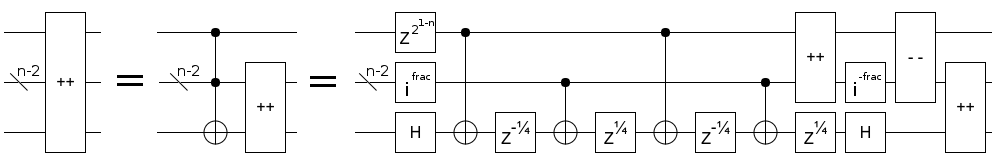
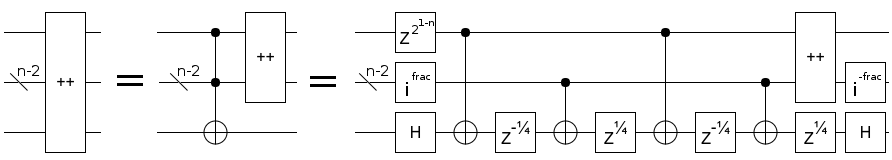
Working out the rest of the constructions in detail

diff --git a/paper.tex b/paper.tex
@@ -8,20 +8,22 @@
 \maketitle
 
 \begin{abstract}
-We describe classical reversible constructions, that require at most 1 ancilla in an unspecified state, for incrementing a register in $O(N)$ depth and size, for modular addition of one register into another in $O(N)$ depth and size, and for modular addition of a compile-time constant into a register in $O(N)$ depth and $O(N \lg N)$ size.
-We note some applications of the constructions, such as performing Shor's algorithm on an $n$-bit product with only $2n+1$ qubits.
+We describe classical and quantum circuits for performing reversible arithmetic using at most 1 ancilla in an unknown state.
+Our constructions can perform incrementation, comparisons, addition, and modular addition with classical circuits of linear size and depth.
+We also show how to perform modular offset, improving the best known space requirements for Shor's algorithm from $2n+2$ qubits to $2n+1$ qubits, in linear depth and $O(n \lg n)$ size.
 \end{abstract}
 
 \section{Introduction}
 
 When constructing quantum circuits, or classical reversible circuits, an important resource is the number of available ancilla.
-Traditionally [[[where? who?]]], an ancilla is a bit initialized into a {\em known} state, available for use by the circuit.
-But "dirty" ancilla, that are in an unknown state that must be preserved, are also a useful resource [[[where? who? haner2016]]].
-Although clean ancilla are better than dirty ancilla for making compact simple circuits [[[example?]]], dirty ancilla are more readily available  because any unused bit in a circuit can be temporarily borrowed as a dirty ancilla.
+An ancilla qubit is an extra qubit, on top of the qubits used for input and output, available for use as temporary workspace.
+Ancilla may be initialized to a known state ("clean bit"), or be given to the circuit in an unknown state ("dirty bit") that must be restored before the circuit finishes.
+Clean bits are more valuable, allowing for simpler and more compact circuit constructions, but dirty bits are more plentiful, because any temporarily unused qubit is a borrowable dirty bit.
 
-The ability to borrow dirty ancilla from other parts of the circuit makes circuit constructions that require only dirty ancilla flexible, especially when space-constrained or when proper ancilla may be far away [[[(e.g. surface code)]]].
-For example, [haner2016] used dirty ancilla to cut the cost of performing Shor's algorithm on an $n$-bit number, using only $2n+2$ qubits, from ???? to $O(n^3)$ depth and $O(n^3 \lg n)$ size.
-In this paper we improve on [haner2016]'s result by cutting the number of required qubits from $2n+2$ to $2n+1$.
+The ability for part of a circuit to borrow dirty bits from another part of the same circuit makes circuit constructions that require only dirty bits very flexible.
+Especially in situations with space constraints, or on circuit topologies where clean ancilla are too far away to be acquired quickly.
+For example, \cite{haner2016} improves the cost of performing Shor's algorithm, when limited to using only $2n+2$ qubits, to $O(n^3)$ depth and $O(n^3 \lg n)$ size by using an offset ("constant addition") construction that borrows dirty bits from one register while offsetting the other.
+We improve on \cite{haner2016} by cutting the number of required qubits from $2n+2$ to $2n+1$.
 
 The paper is structured as follows.
 Sections ??? through ??? describe various circuit constructions.
@@ -33,35 +35,52 @@ Section ??? applies those circuit constructions to exist problems.
 All constructions assume a 2s-complement representation of integers.
 All circuit diagrams with multi-wire integer operations put the least significant bit towards the top.
 
-\section{$O(N)$ inline adder}
+\section{$O(N)$ inline adders}
 
-[van2004] describes a reversible adder with $O(N)$ depth and $O(N)$ size, requiring a single clean ancilla.
-The ancilla must be off, or else the result is incremented into returning $a+b+1$ instead of $a+b$.
+In \cite{van2004}, a reversible adder with $O(N)$ depth and $O(N)$ size, requiring a single clean ancilla, is described.
+If the ancilla is not initialized in the off state, the target register ends up storing $a+b+1$ instead of $a+b$.
 
-The need for the ancilla to be clean can be fixed by conditionally NOT-ing the source and target registers before and after the addition when the carry is on.
-Because $\lnot x = -x-1$, temporarily inverting the target turns the addition into a subtraction.
-Temporarily inverting the source turns the subtraction back into an addition, but also introduces an extra shift by -1.
-The -1 cancels the carry's +1 effect.
+The need for the ancilla to be clean can be fixed by inverting (bitwise-NOT-ing) the source and target registers before and after the addition when the carry is on.
+Because $\lnot x = -x-1$, and the registers are the same size, temporarily inverting the target effectively turns the addition into a subtraction.
+Temporarily inverting the source turns the subtraction back into an addition, but also introduces an extra shift by -1, cancelling out the +1 error.
 
-On top of this improvement, the carry role can be merged into the most-significant-bit of the source register.
-Although the MSB can't invert itself, the circuit still works because we don't need an overflow signal that distinguishes between the MSB toggling from on to off instead of from off to on.
-
-The improved reversible adder is shown in figure \ref{fig:inlineadder}.
-Note that, because the source register is used as workspace, it must be at least as large as the target register.
+On top of allowing the ancilla to be dirty, the ancilla's role can be merged into the most-significant-bit (MSB) of the source register.
+As shown in figure \ref{fig:inlineadder}, addition of same-sized registers can be performed {\em inline}, with no ancilla at all!
 
 \begin{figure}
   \centering
   \includegraphics[totalheight=3cm]{inline-adder.png}
-  \caption{\em Adder using no ancilla and $\Theta(N)$ CNOTs and CSWAPs. Based on [van2004].}
+  \caption{\em Same-register-size adder using no ancilla, $6N-3$ CNOTs, and $2N-2$ CSWAPs. Based on \cite{van2004}.}
   \label{fig:inlineadder}
 \end{figure}
 
 To perform subtraction instead of addition: run the circuit in reverse, temporarily invert the target register by bordering the circuit with NOT gates on the target, or invert the CSWAP controls.
 
+Because the source register is used as workspace, the construction in figure \ref{fig:inlineadder} only works when the source register is the same size as the target register.
+When the source register is larger, the issue is easily avoided by ignoring the high bits of the source register.
+When the target register is larger, the workaround is more difficult.
+Not only is there insufficient workspace, the register sizes being different breaks the logical-negation trick that allowed the carry signal bit to be dirty.
+
+The problems caused by the target register being larger can be overcome by using the increment and decrement constructions from the next section.
+(Note that they use only the same-size adder.)
+The carry signal can be forwarded into the high part of the target register with a controlled increment.
+The MSB of the source register can be free'd for use as a borrowed dirty bit by performing the MSB's controlled increment.
+Finally, the extra increment caused by the borrowed dirty bit being on can be cancelled with a controlled decrement.
+See the circuit diagram in figure \ref{fig:inline-adder-into-large}.
+
+\begin{figure}
+  \centering
+  \includegraphics[totalheight=3cm]{inline-adder-into-large.png}
+  \caption{\em
+      Adder with target larger than source, using no ancilla.
+      Uses increment constructions that use the same-size adder.}
+  \label{fig:inline-adder-into-large}
+\end{figure}
+
 \section{$O(N)$ incrementer}
 
-Note that a register can be incremented by subtracting both $x$ and $\neg x = -x-1$ from it for any $x$.
-When $N$ dirty ancilla are available, this can be done directly as shown in figure \ref{fig:double-sub-increment}.
+A register can be incremented by subtracting both $x$ and $\neg x = -x-1$ from it, for any $x$.
+When $N$ dirty bits are available, $x$ comes from the register defined by those $N$ bits, as shown in figure \ref{fig:double-sub-increment}.
 
 \begin{figure}
   \centering
@@ -70,143 +89,163 @@ When $N$ dirty ancilla are available, this can be done directly as shown in figu
   \label{fig:double-sub-increment}
 \end{figure}
 
-An increment gate can be decomposed into halves where the top half is incremented only if all of the bottom bits are on, and then the bottom half is incremented.
-By borrowing the top half, the bottom half can be incremented with the double-subtraction trick.
-But the trick doesn't work on the top half, because the top half can't be borrowed when being controlled by it.
+To improve from $N$ dirty bits to a single dirty bit, we break the increment operation into two halves.
+A top half that is incremented only if all of the bottom bits are on, and a bottom half that is unconditionally incremented.
+The bottom half can be incremented with the double-subtraction trick by borrowing the top half.
+But the trick doesn't work on the top half, because the bottom half can't be borrowed when it is being used as a control.
 
-A workaround for this is to change the second subtraction to an addition, and to conditionally toggle the target bits instead of the input bits.
-When the condition isn't satisfied, the addition and subtraction cancel each other.
-When the condition is satisfied, the addition inverts into a second subtraction and the input is subtracted from the target twice.
-However, because we are conditioning on the input bits all being on, the input must be -1 and the target must have been incremented by 2.
-To halve the +2 into a +1, left-shift the target and use a dirty bit as its LSB.
+To work around not being able to operate on the borrowed bits while them as a control, start with the double-subtraction trick but change the second subtraction to an addition and conditionally toggle the target bits instead of the input bits.
+When the condition isn't satisfied, the addition and subtraction will cancel each other.
+When the condition is satisfied, the addition is inverted into a subtraction.
+Both the subtraction and addition-turned-subtraction fire, subtracting the input register from the target register twice.
+However, because we are conditioning on the input bits all being on, the input must be -1.
+Therefore the target was incremented by 2.
+To halve the +2 into a +1, prepend a dirty LSB onto the target register as shown in \ref{fig:compact-increment}.
 
 \begin{figure}
   \centering
   \includegraphics[totalheight=1.5cm]{compact-increment.png}
-  \caption{\em Odd-sized $\Theta(N)$ increment with 1 dirty ancilla.}
+  \caption{\em Odd-sized $O(N)$ increment with 1 dirty ancilla.}
   \label{fig:compact-increment}
 \end{figure}
 
-The described incrementer construction is shown in figure \ref{fig:compact-increment}.
-However, because the adder/subtracter construction requires the target and source registers to be the same size, this incrementer construction only works on odd-sized registers.
+The incrementer construction shown in .
+Because the adder/subtracter construction used by the incrementer in figure \ref{fig:compact-increment} requires the target and source registers to be the same size, the construction only works on odd-sized registers.
 For even-sized registers, another minor variation on the conditionally-invert-addition-into-subtraction-with-logical-negation technique is used.
 The construction is shown in \ref{fig:compact-increment-even}.
-Note that it is easily modified to perform efficient increments with arbitrarily many controls.
 
 \begin{figure}
   \centering
   \includegraphics[totalheight=2cm]{compact-increment-even.png}
-  \caption{\em Even-sized $\Theta(N)$ increment with 1 dirty ancilla.}
+  \caption{\em Even-sized $O(N)$ increment with 1 dirty ancilla.}
   \label{fig:compact-increment-even}
 \end{figure}
 
 As with addition and subtraction, you can turn an increment into a decrement either by reversing the gate order, by bordering the circuit with NOT gates, or by inverting all of the controls.
+Also, increment gates can be controlled by using another invert-input-and-output trick (see figures \ref{} and \ref{}).
 
-Our incrementer is classically optimal in asymptotic size and number of ancilla, but not depth.
-The size is asymptotically optimal because any incrementer must touch all $n$ bits.
-The number of ancilla is classically optimal, assuming we want to reduce to a fixed-size gate set, because the parity of the permutation performed by an increment operation is odd but the parity of the permutation performed by a classical gate that doesn't cover the entire circuit is even.
-Therefore, without a dirty bit to use as workspace, no classical circuit can perform an increment gate.
+Note that, unlike with addition, it is impossible to create a classical incrementer that uses no ancilla.
+The parity of the permutation performed by an increment operation is odd, but the parity of the permutation performed by any classical gate that doesn't cover the entire circuit is even.
 Quantumly, the parity barrier can be bypassed by using partial rotations (see figure \ref{fig:bootstrap-ancilla}).
 
 \begin{figure}
   \centering
-  \includegraphics[totalheight=1.3cm]{ancilla-bootstrap.png}
-  \caption{\em Bootstrapping dirty ancilla out of an increment gate using quantum operations.}
+  \includegraphics[totalheight=1.4cm]{ancilla-bootstrap.png}
+  \caption{\em Bootstrapping dirty ancilla out of an increment gate using quantum operations.
+  The $i^{\text{frac}}$ operation is implemented by a column of $Z^{2^{-k}}$ gates.
+  The 'frac' refers to the fraction $v/2^d$, where $v$ is the computational-basis value in the register and $d$ is the size of the register.}
   \label{fig:bootstrap-ancilla}
 \end{figure}
 
-\section{$O(N \lg N)$ constant $\text{PivotFlip}$}
+\section{$O(N)$ inline comparisons}
+
+Comparison operations toggle a target bit based on the relationship between two input registers.
+
+The is-B-less-than-A comparison is implemented by subtracting $A$ out of $B$ with the target bit appended to $B$, then adding $A$ into $B$ without the target bit appended.
+See figure \ref{fig:comparison-less}.
+
+\begin{figure}
+  \centering
+  \includegraphics[totalheight=3cm]{comparison-less.png}
+  \caption{\em Toggling a target bit if one register is less than another, without using ancilla.}
+  \label{fig:comparison-less}
+\end{figure}
+
+The same idea is used for is-B-less-than-or-equal-to-A, except $A+1$ is subtracted and added instead of $A$.
+The extra $\pm 1$ is performed by increment and decrement gates, as shown in figure \ref{fig:comparison-leq}.
+When the two registers are the same size, the increment gate can be omitted by inverting the $A$ and $B$ registers during the addition.
+
+$>$ and $\geq$ comparisons are done by performing the opposite comparison ($\leq$ and $<$ respectively) and inverting the result by toggling the target.
+To perform a comparison when the $B$ register is smaller than the $A$ register, swap their roles and use the opposite comparison.
+
+\begin{figure}
+  \centering
+  \includegraphics[totalheight=3cm]{comparison-leq.png}
+  \caption{\em Toggling a target bit if one register is less than or equal to another, without using ancilla.}
+  \label{fig:comparison-leq}
+\end{figure}
+
+\section{$\text{PivotFlip}$}
 
 A pivot-flip operation reverses the order of states less than or equal to a given pivot value.
 For example, a pivot-flip with the pivot equal to 3 would swap $|0\rangle$ and $|3\rangle$, swap $|1\rangle$ and $|2\rangle$, and leave all other states untouched.
-We will use pivot-flips later, when implementing modular addition.
+Pivot-flips are useful for implementing cyclic operations, such as modular addition.
 
-For concreteness, the exact permutation of a pivot-flip is:
+The exact permutation performed by a pivot-flip with pivot equal to $k$ is:
 
 $$\text{PivotFlip}_k = \sum_{i=0}^k |k-i\rangle \langle i| + \sum_{i=k+1}^{N-1} |i\rangle \langle i|$$
 
+And the overall permutation, including the pivot input, is:
+
+$$\text{PivotFlip} = \sum_{k=0}^{N-1} |k\rangle \langle k| \otimes \text{PivotFlip}_{k}$$
+
 To perform a pivot-flip efficiently, we use the fact that $x \rightarrow \lnot(x - a)$ nearly does what is required.
-However, instead of doing nothing to the elements past the pivot, it also flips those elements as shown in figure \ref{fig:double-flip}.
+As shown in figure \ref{fig:double-flip}, the permutation $x \rightarrow \lnot(x - a)$ flips below the pivot but also above the pivot.
+However, because $x \rightarrow \lnot(x - a)$ is its own inverse and doesn't change whether any value is less than or equal to the pivot, the input can be controlled by dirty comparisons against the pivot.
+By applying $x \rightarrow \lnot(x - a)$ twice, controlled by a dirty bit that is toggled by the comparison, the desired effect is achieved (see figure \ref{fig:const-pivot-flip}).
+
+For states that are less than or equal to $A$, only one of the controlled flips happens.
+For other states, the controlled flip happens no times or two times, undoing itself.
 
 \begin{figure}
   \centering
-  \includegraphics[totalheight=7cm]{double-flip.png}
-  \caption{\em Subtraction followed by logical negation performs a flip both above and below the pivot.}
+  \includegraphics[totalheight=4cm]{double-flip.png}
+  \caption{\em Subtraction followed by logical negation performs flips both above and below $k$.}
   \label{fig:double-flip}
 \end{figure}
 
-Note that $x \rightarrow \lnot(x - a)$ is its own inverse and maintains the invariant that a given value will cause an underflow when subtracting $a$.
-So, by applying the operation twice, controlled by a dirty bit that is toggled by the underflow signal, the desired effect is achieved.
-The part of the range below the pivot does trigger the underflow, so only one of the controlled flips happens.
-The part of the range above the pivot does not cause an underflow, and so flips no times or two times, undoing itself.
-
-The resulting pivot-flip circuit is shown in figure \ref{fig:const-pivot-flip}.
-
 \begin{figure}
   \centering
-  \includegraphics[totalheight=2cm]{pivot-flip.png}
+  \includegraphics[totalheight=2.7cm]{pivot-flip.png}
   \caption{\em Pivot flip circuit.
-  Note that the top wire bundle is a compile-time constant.
-  The underflow toggle is done with an $n+1$-bit subtraction then an $n$-bit addition.
-  [[[Requires an extra dirty bit for the n+1-bit subtraction?]]]
-  The controlled subtractions are done by controlling every generated operation.}
+  When the top wire bundle is a register, the subtractions are controlled by replacing the CNOTs in figure \ref{fig:inlineadder} with CCNOTs.
+  When the top wire bundle is a compile-time constant, the subtractions use the construction from \cite{haner2016} and are controlled as shown in figure \ref{fig:controlled-offset}.}
   \label{fig:const-pivot-flip}
 \end{figure}
 
-Because the pivot is a compile-time constant, and so there is no source register workspace, the inline adder construction can't be used.
-Instead, we use the constant-adder from [haner2016].
-That adder requires $O(N)$ depth and $O(N \lg N)$ size, and therefore so does the constant-pivot-flip circuit.
+\begin{figure}
+  \centering
+  \includegraphics[totalheight=3.1cm]{controlled-offset.png}
+  \caption{\em Offset circuit from \cite{haner2016}, modified to include a control.}
+  \label{fig:controlled-offset}
+\end{figure}
 
-\section{$O(N \lg N)$ Modular Constant-Adder}
+The cost of a $\text{PivotFlip}$ depends on if the pivot is a compile-time constant or not.
+When the pivot is input from another register, the $O(N)$ inline adder can be used.
+But when the pivot is a constant, the $O(N \lg N)$ size and $O(N)$ depth offset gate from \cite{haner2016} is used instead (note: they refer to it as a constant addition gate).
+
+\section{$O(N \lg N)$ Modular Addition and Offset}
 
 A modular addition is three pivot flips.
-To add $a$ modulo $n$, perform a pivot-flip at $n-a$, a pivot-flip at $n$, and then a pivot-flip at $a$.
+To add $a$ into a register modulo $r$, perform pivot-flips with the pivot at $r-1-a$, then $r-1$, then $a$.
+See figure \ref{fig:modular-add}.
 
-[[[diagram]]]
+\begin{figure}
+  \centering
+  \includegraphics[totalheight=1.7cm]{modular-addition.png}
+  \caption{\em Modular addition circuit.
+  The $+r$ offset gates require $O(N \lg N)$ size.
+  The pivot-flips require a dirty bit and that a constant.}
+  \label{fig:modular-add}
+\end{figure}
 
-Because the modular addition does a constant number of pivot-flips, its resource usage is identical: one [[[two?]]] dirty bits, $O(N)$ depth, and $O(N \lg N)$ size.
+Note that we have implemented modular addition in terms of normal addition.
+This fact is obfuscated by the number of constructions used but, as shown in figure \ref{fig:modular-dependencies}, addition and offset (constant addition) are the only operations not defined in terms of another operations.
 
-\section{$O(N)$ $\text{PivotFlip}$}
+\begin{figure}
+  \centering
+  \includegraphics[totalheight=18cm]{modular-add-graph.png}
+  \caption{\em
+      Dependency graph of constructions used to create a classical reversible modular adder / modular offset gates using only 1 dirty bit.}
+  \label{fig:modular-dependencies}
+\end{figure}
 
-For completeness, we also discuss how to do a pivot-flip when the pivot is stored in a register instead of a compile-time constant.
-The original construction doesn't work in this case because it uses an extra bit in the source register.
-
-To work around the problem we propagate the increment into the operations on the target.
-[[[But the addition sizes don't match up?]]]
-
-[[[Maybe just ignore the increment size problem, then fixup with a conditioned all-flip?]]]
-
-Note that, when storing in a register, we offset the pivot $k$ by one.
-This is to avoid the redundancy $\text{PivotFlip}_0 = \text{PivotFlip}_1 = I$ and to move the flip-all operation $\text{PivotFlip}_{N}$ into range.
-Concretely, we want to perform this permutation:
-
-$$\text{RegisterPivotFlip} = \sum_{k=0}^{N-1} |k\rangle \langle k| \otimes \text{PivotFlip}_{k+1}$$
-
-Basically we do this by just inlining the increments and decrements into the addition operations or by using that other thing I tried.
-
-\section{$\Theta(N)$ Modular Addition}
-
-Same high-level construction as the constant modular adder.
-Do three pivot flips, but register-based instead of constant-based.
-This reduces the size cost from $O(N \lg N)$ to $O(N)$.
 
 \section{Applications}
 
 Shor's algorithm in $2n+1$ qubits.
 
-
-
-
-
-References:
-
-haner2016 https://arxiv.org/abs/1611.07995
-Factoring using 2n+2 qubits with Toffoli based modular multiplication
-Thomas Häner, Martin Roetteler, Krysta M. Svore
-
-van2004
-Optimal Design of A Reversible Full Adder
-YVAN VAN RENTERGEM AND ALEXIS DE VOS
-2004
+\bibliographystyle{plain}
+\bibliography{citations}
 
 \end{document}
